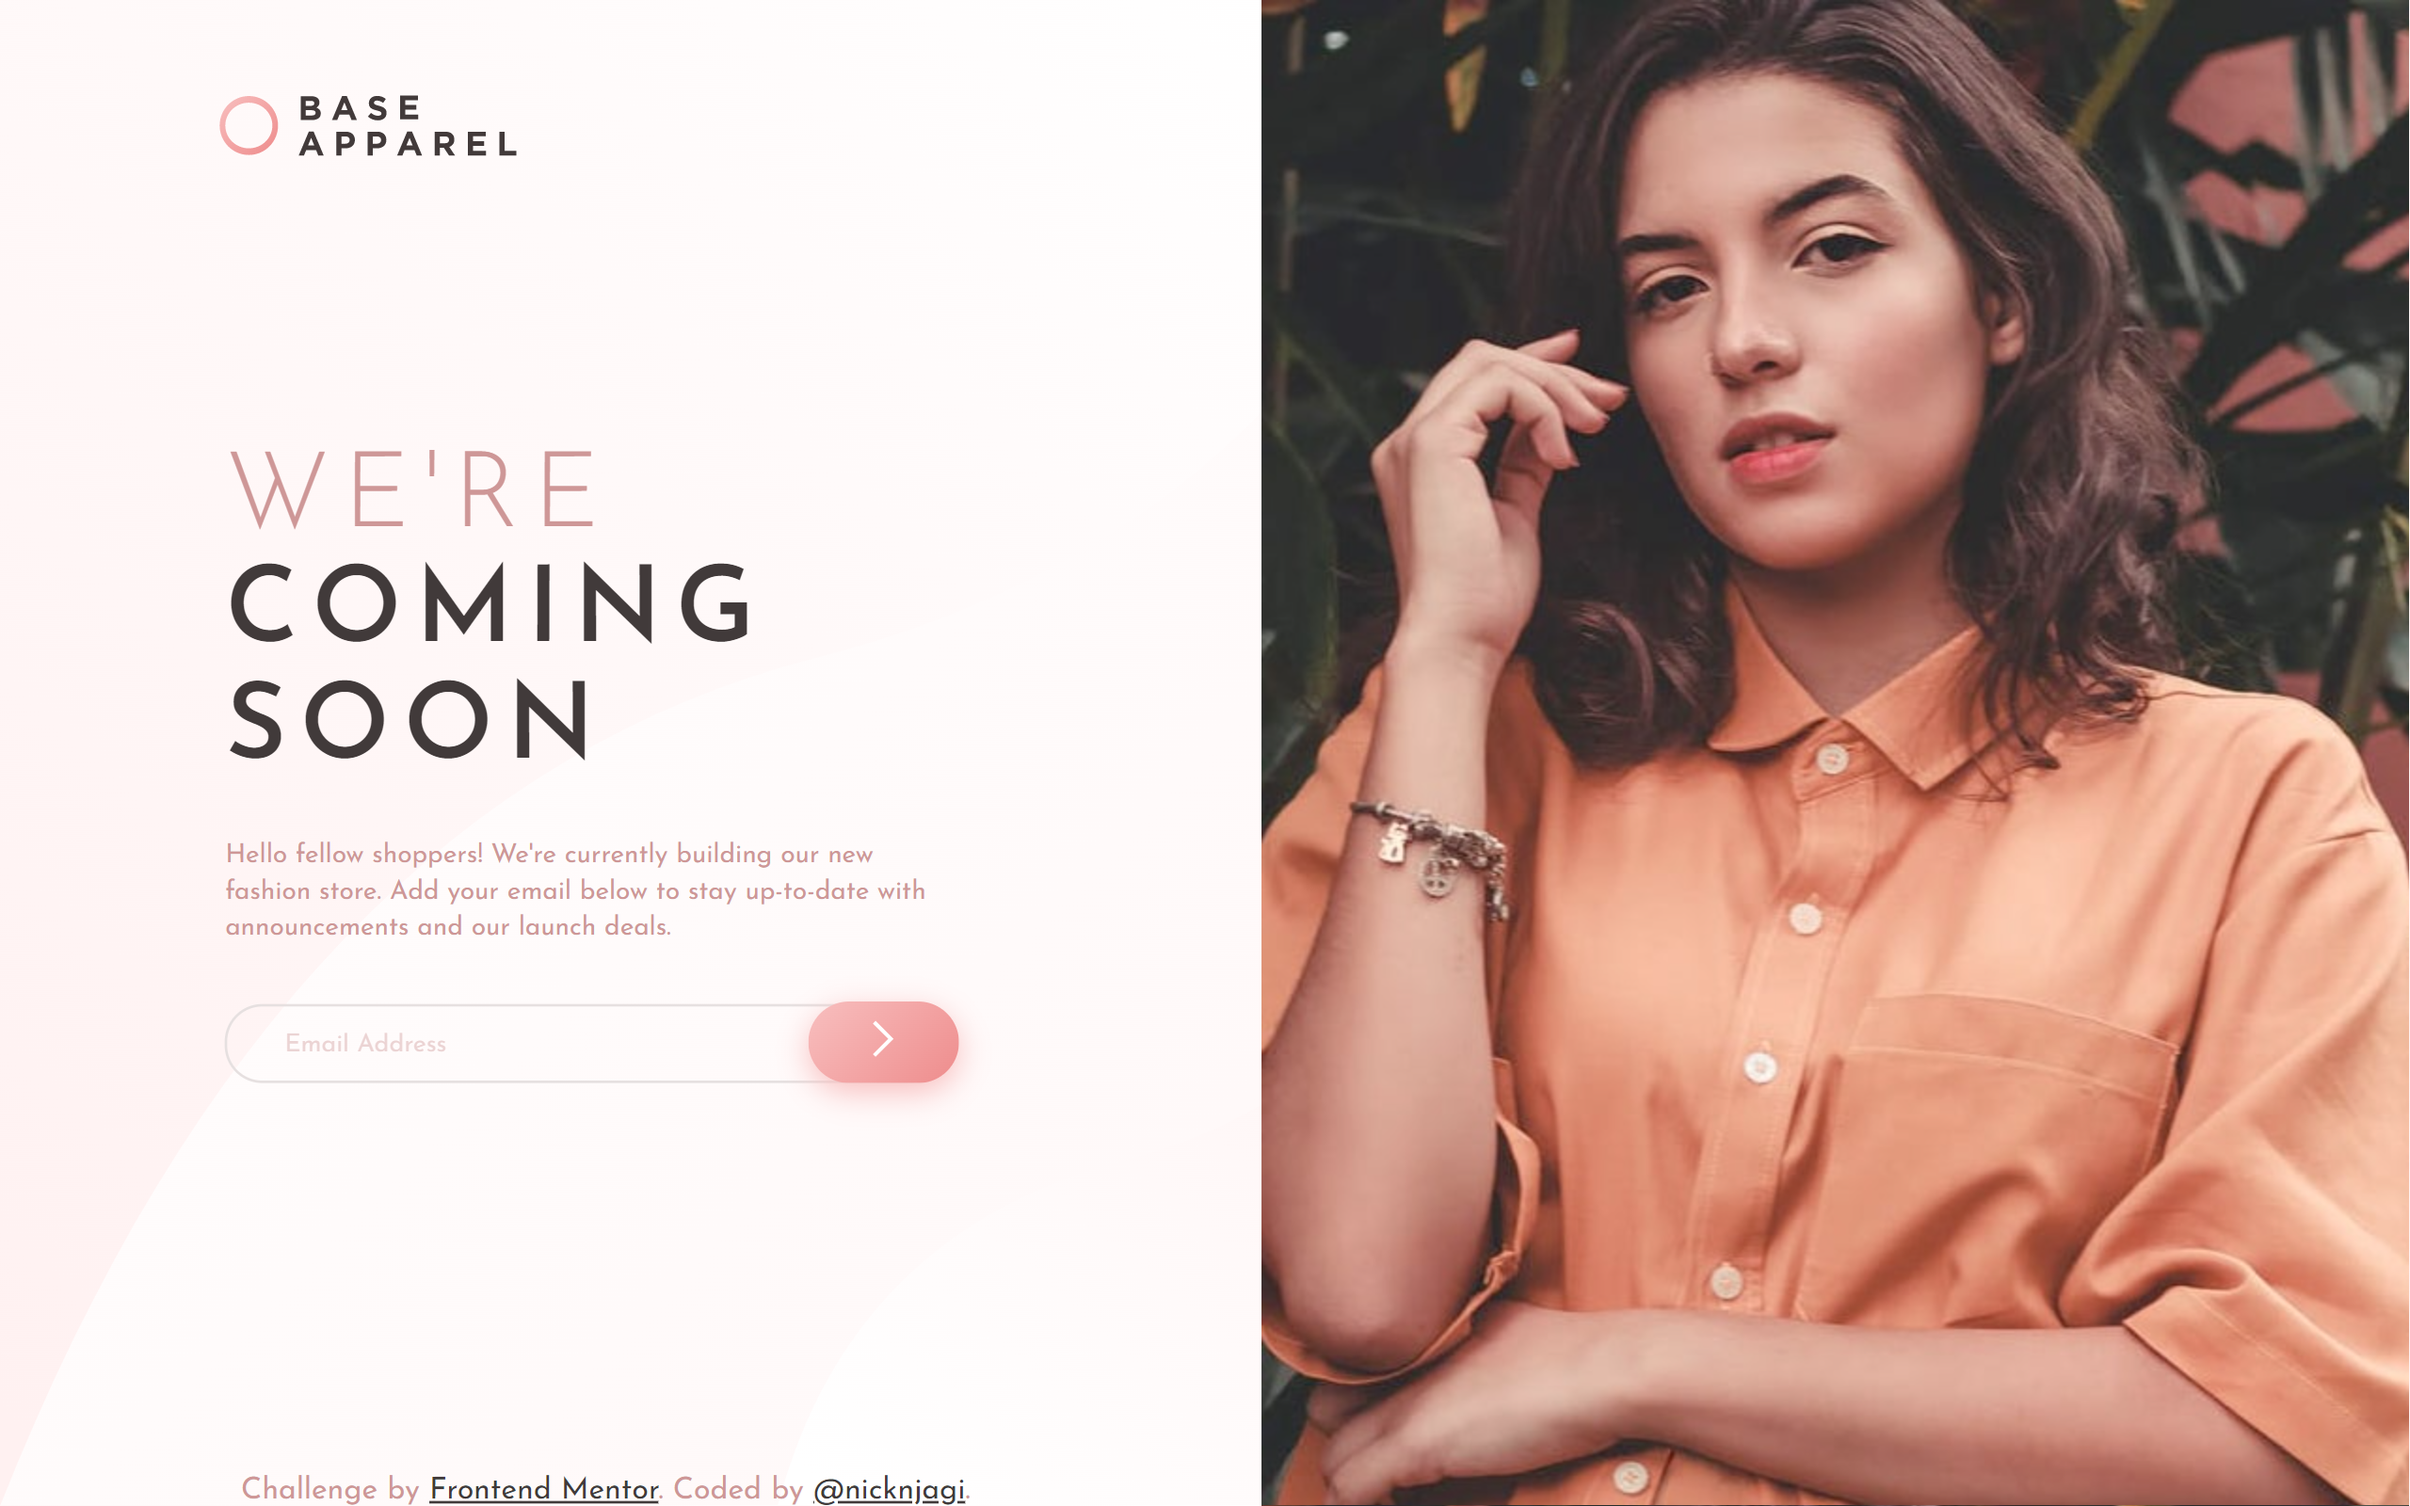
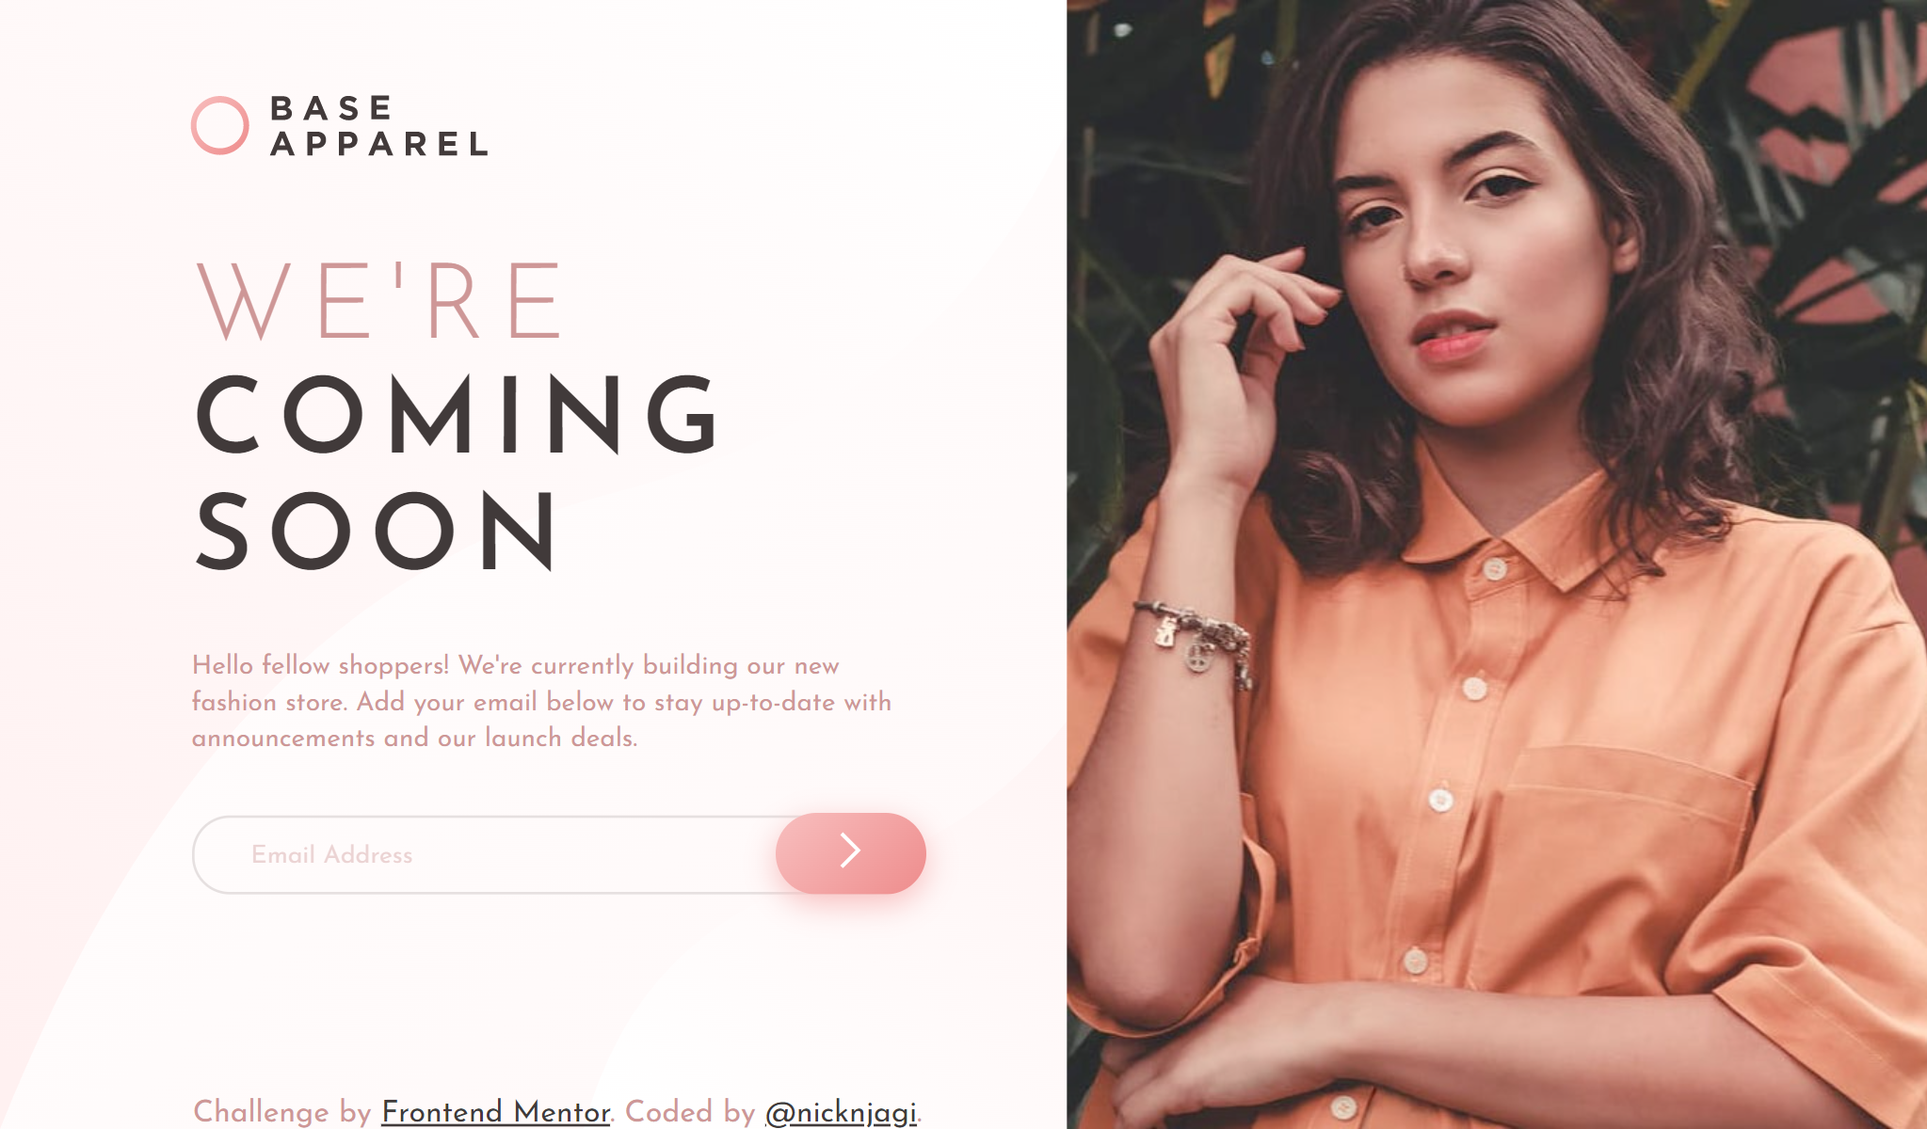
updated files

diff --git a/index.html b/index.html
@@ -5,8 +5,8 @@
     <meta http-equiv="X-UA-Compatible" content="IE=edge">
     <meta name="viewport" content="width=device-width, initial-scale=1.0">
     <link rel="icon" type="image/png" sizes="32x32" href="./images/favicon-32x32.png">
-    <link rel="stylesheet" href="style.css">
     <title>Frontend Mentor | Base Apparel coming soon page</title>
+    <link rel="stylesheet" href="style.css">
 </head>
 <body>
     <header>

diff --git a/style.css b/style.css
@@ -247,4 +247,10 @@ a {
         bottom: 0;
         left: 10%;
     }
+    
+    @media (min-width:1280px){
+        main{
+            background-size: cover;
+        }
+    }
 }

diff --git a/README.md b/README.md
@@ -4,18 +4,19 @@ This is a solution to the [Base Apparel coming soon page challenge on Frontend M
 
 ## Table of contents
 
-- [Overview](#overview)
-  - [The challenge](#the-challenge)
-  - [Screenshot](#screenshot)
-  - [Links](#links)
-- [My process](#my-process)
-  - [Built with](#built-with)
-  - [What I learned](#what-i-learned)
-  - [Continued development](#continued-development)
-  - [Useful resources](#useful-resources)
-- [Author](#author)
+- [Frontend Mentor - Base Apparel coming soon page solution](#frontend-mentor---base-apparel-coming-soon-page-solution)
+  - [Table of contents](#table-of-contents)
+  - [Overview](#overview)
+    - [The challenge](#the-challenge)
+    - [Screenshot](#screenshot)
+    - [Links](#links)
+  - [My process](#my-process)
+    - [Built with](#built-with)
+    - [What I learned](#what-i-learned)
+    - [Continued development](#continued-development)
+    - [Useful resources](#useful-resources)
+  - [Author](#author)
 
-**Note: Delete this note and update the table of contents based on what sections you keep.**
 
 ## Overview
 
@@ -54,14 +55,10 @@ Users should be able to:
 
 ### Continued development
 
-Use this section to outline areas that you want to continue focusing on in future projects. These could be concepts you're still not completely comfortable with or techniques you found useful that you want to refine and perfect.
-
-
 ### Useful resources
 
-- [Example resource 1](https://www.example.com) - This helped me for XYZ reason. I really liked this pattern and will use it going forward.
-- [Example resource 2](https://www.example.com) - This is an amazing article which helped me finally understand XYZ. I'd recommend it to anyone still learning this concept.
-
+- [Example resource 1](https://www.example.com) - 
+- [Example resource 2](https://www.example.com) - 
 
 
 ## Author
